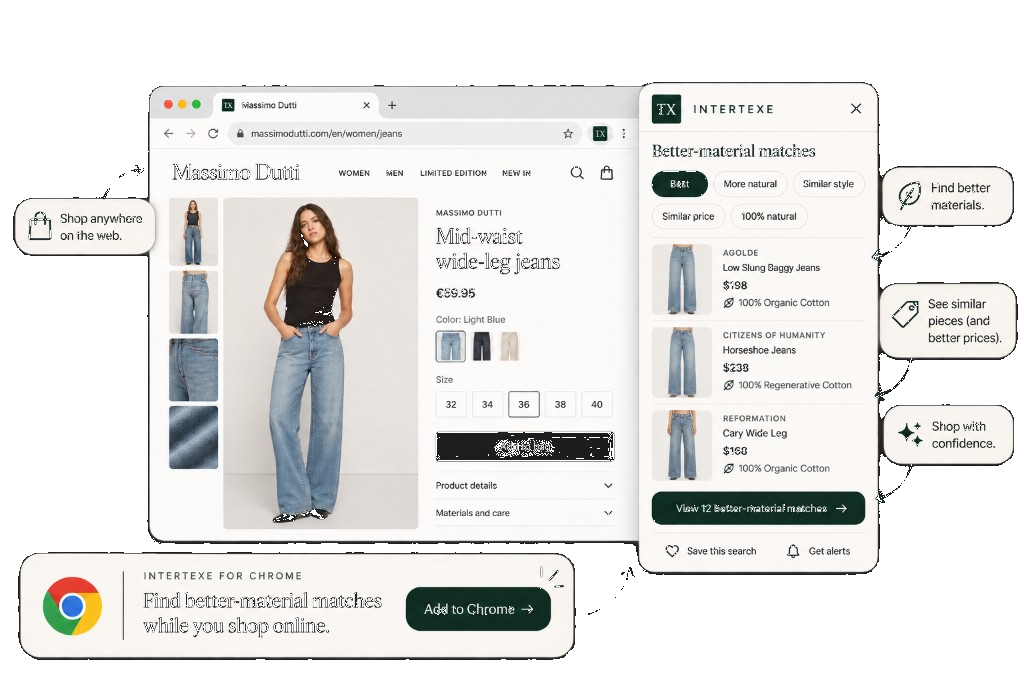
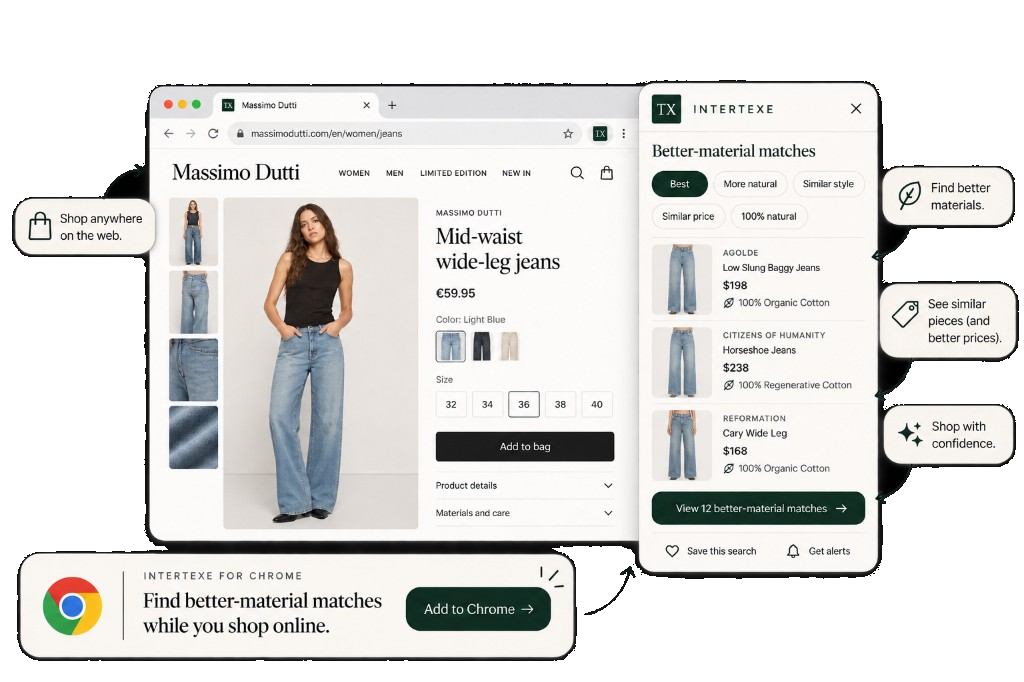
Fix distorted homepage promo art with edge-only matte removal.
Regenerate transparent PNGs by flooding from the border only so dark UI chrome stays intact, and lock each visual to its native aspect ratio.

diff --git a/app/components/home-promo/HomeChromeExtensionVisual.tsx b/app/components/home-promo/HomeChromeExtensionVisual.tsx
@@ -2,11 +2,11 @@
 
 import Image from "next/image";
 
-/** Real Chrome extension promo — transparent matte asset on ivory section. */
+/** Real Chrome extension promo — edge-matted PNG on ivory section. */
 export function HomeChromeExtensionVisual() {
   return (
     <div className="relative w-full" data-testid="home-chrome-extension-visual">
-      <div className="relative aspect-[4/3] sm:aspect-[16/11] lg:aspect-[5/4]">
+      <div className="relative w-full" style={{ aspectRatio: "1024 / 682" }}>
         <Image
           src="/promo/home-chrome-extension-transparent.png"
           alt="INTERTEXE Chrome extension on a Massimo Dutti product page, surfacing better-material jean matches"

diff --git a/app/components/home-promo/HomeIosScannerVisual.tsx b/app/components/home-promo/HomeIosScannerVisual.tsx
@@ -2,11 +2,11 @@
 
 import Image from "next/image";
 
-/** Real iOS scanner promo — transparent matte asset on ivory section. */
+/** Real iOS scanner promo — edge-matted PNG on ivory section. */
 export function HomeIosScannerVisual() {
   return (
     <div className="relative w-full" data-testid="home-ios-scanner-visual">
-      <div className="relative aspect-[4/3] sm:aspect-[16/11] lg:aspect-[5/4]">
+      <div className="relative w-full" style={{ aspectRatio: "1024 / 935" }}>
         <Image
           src="/promo/home-ios-scanner-transparent.png"
           alt="INTERTEXE iOS app scanning a Massimo Dutti price tag, showing fiber composition and better-material matches"
